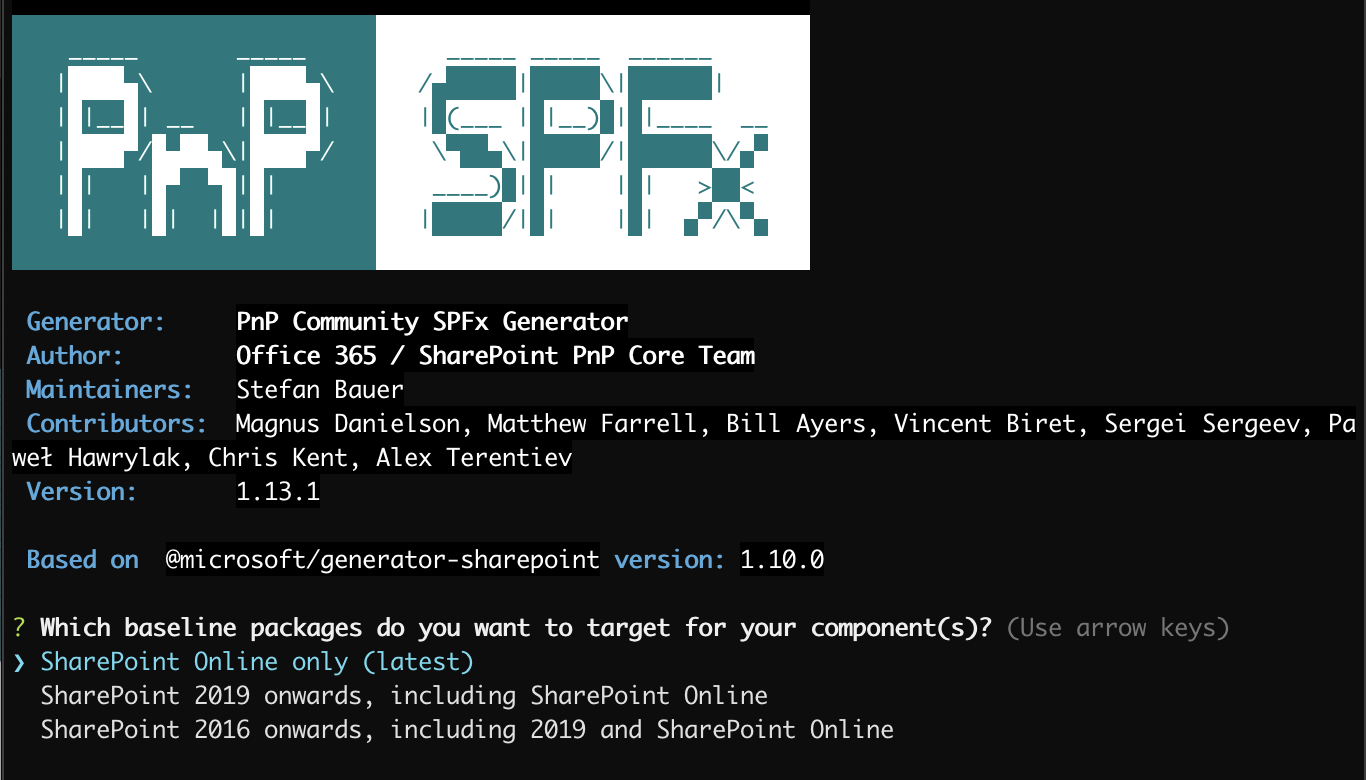
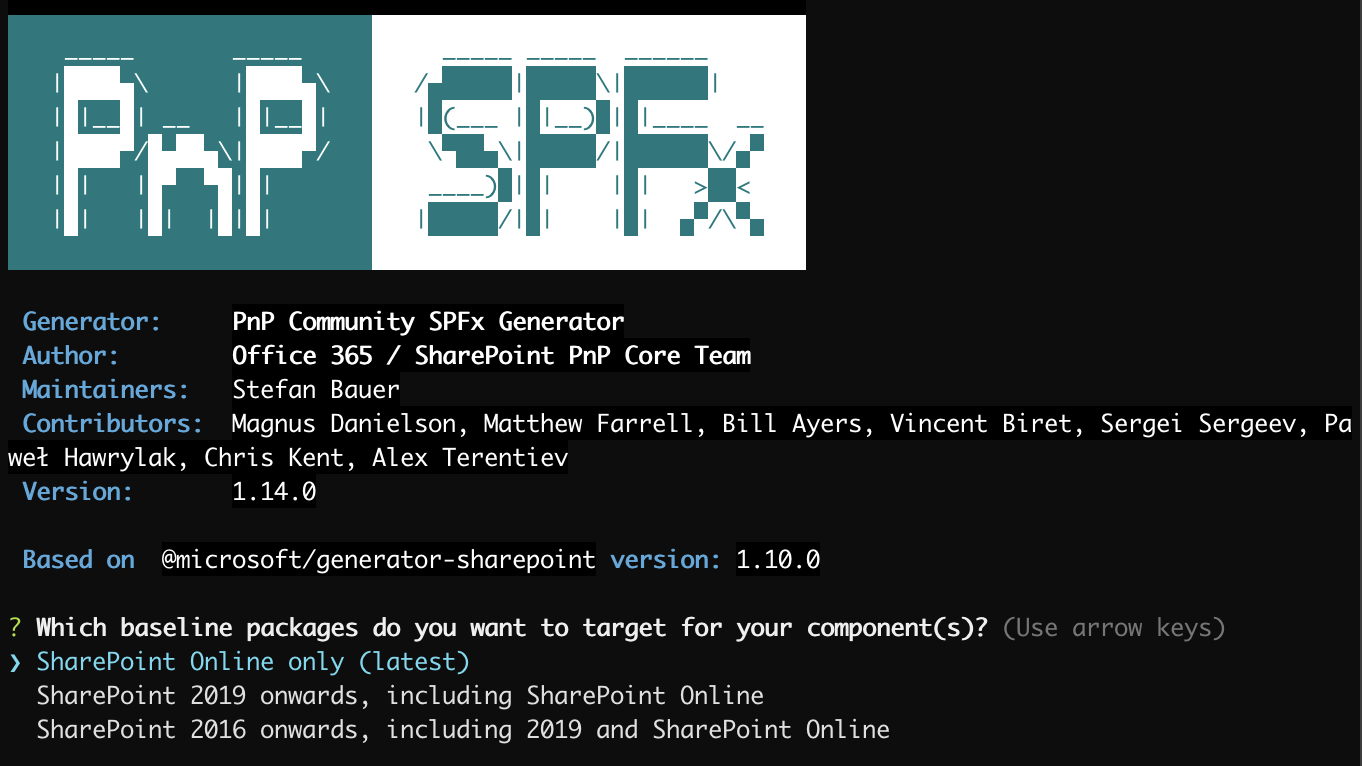
pre-launch preperation

diff --git a/docs/release-notes.md b/docs/release-notes.md
@@ -2,7 +2,8 @@
 
 # 1.14.0 Angular 9 Support added
 
-- Addes Angular 9 support and is capable of Angular 6/7/8/
+- Addes Angular 9 support and is capable of Angular 6/7/8
+- [CSS Module](https://github.com/css-modules/css-modules) support for [StyleLinter](https://stylelint.io) added
 - TypeScript 3.8/3.9 added
 - Minor update VueJS
 - @pnp/spfx-controls-react - v1.19.0

diff --git a/README.md b/README.md
@@ -17,6 +17,8 @@ This is an open-source extension for native out of the box SPFx generator to int
 
 More details can be found in the documentation at [https://aka.ms/pnpgenerator](https://aka.ms/pnpgenerator)
 
+- [Release notes](https://pnp.github.io/generator-spfx/release-notes/)
+
 ## Installation
 
 ### via NPM
